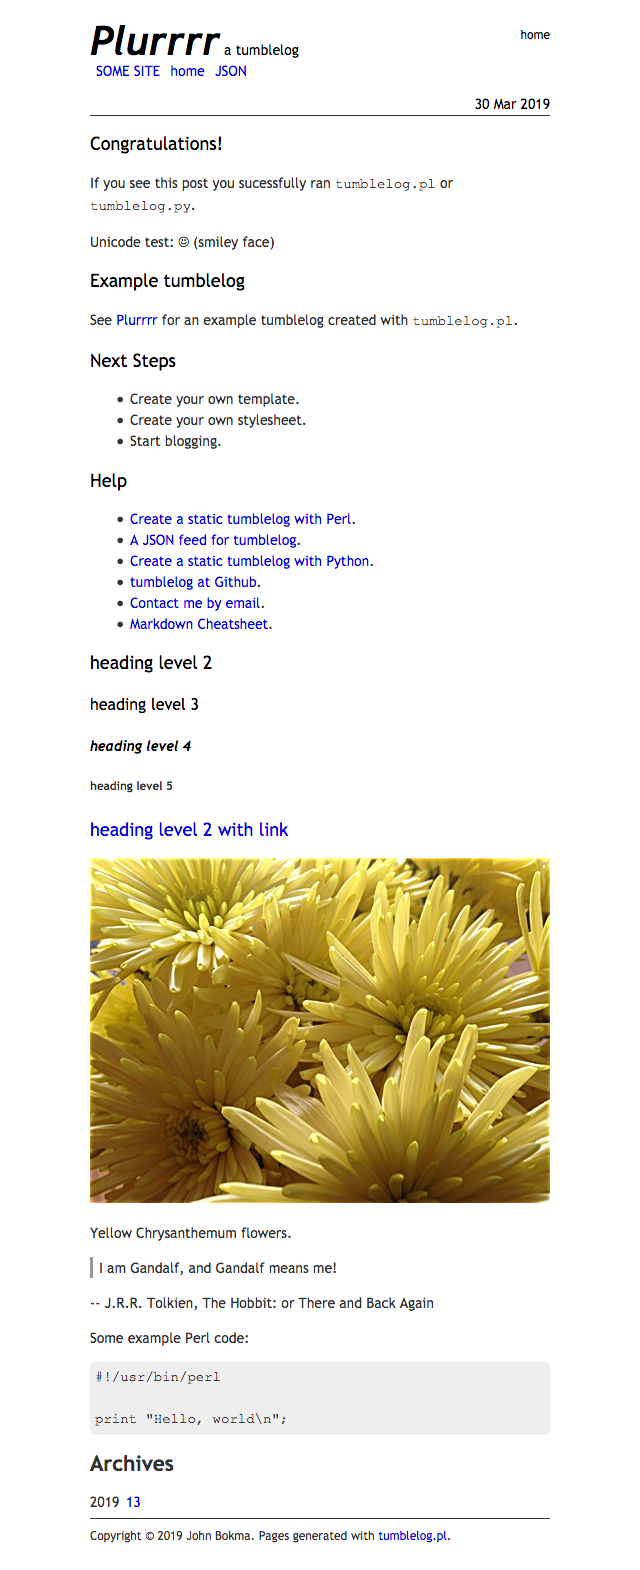
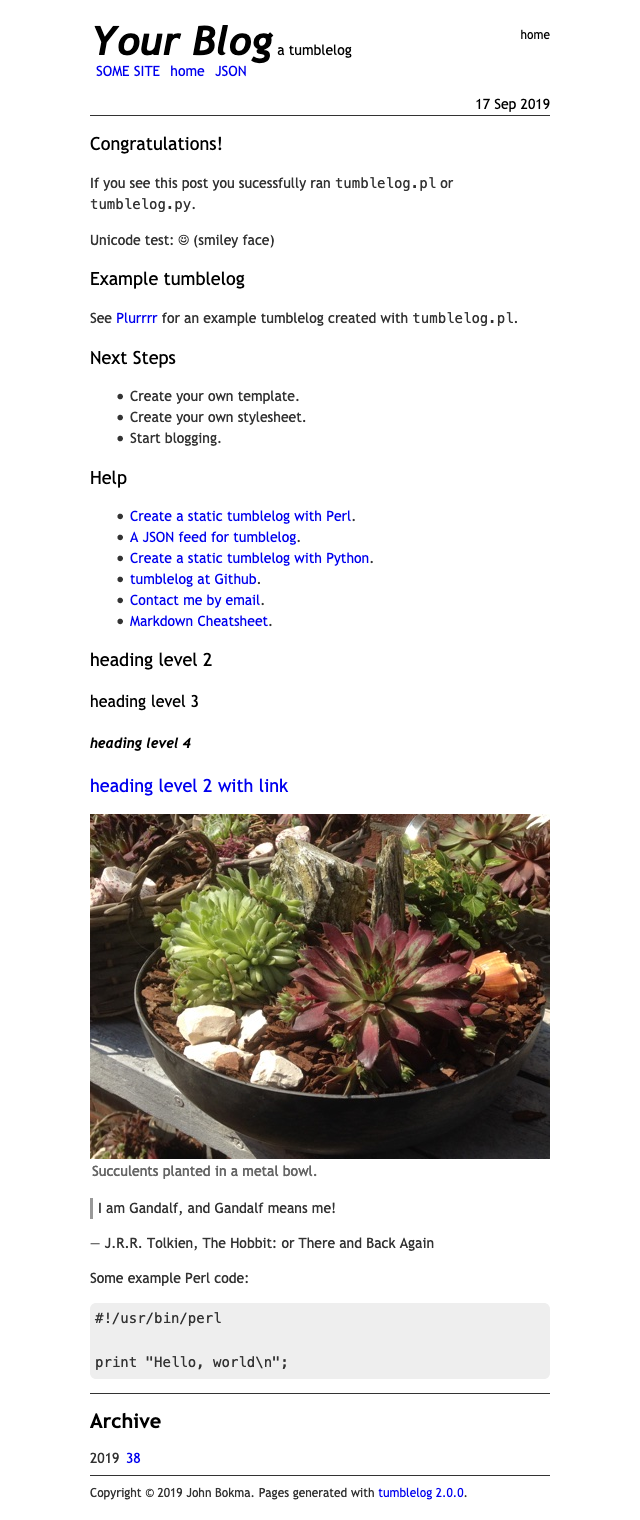
Render images followed by a caption as figure/figcaption

diff --git a/styles/soothe.scss b/styles/soothe.scss
@@ -32,3 +32,20 @@ $border: solid 1px $border-color;
 $border-radius: 6px;
 
 @import 'tumblelog';
+
+figure {
+    margin: 0;
+
+    img {
+        display: block;
+        border-radius: $border-radius $border-radius 0 0;
+    }
+    figcaption {
+        color: $background-color;
+        background-color: $text-color;
+        padding: 2px;
+        text-align: center;
+        border-radius: 0 0 $border-radius $border-radius;
+        margin-bottom: 1em;
+    }
+}

diff --git a/styles/adrift-in-dreams.scss b/styles/adrift-in-dreams.scss
@@ -73,3 +73,20 @@ blockquote {
     border-radius: $border-radius;
     border-left: solid 3px $blockquote-border-color;
 }
+
+figure {
+    margin: 0;
+
+    img {
+        display: block;
+        border-radius: 6px 6px 0 0;
+    }
+    figcaption {
+        color: $background-color;
+        background-color: $text-color;
+        padding: 2px;
+        text-align: center;
+        border-radius: 0 0 6px 6px;
+        margin-bottom: 1em;
+    }
+}

diff --git a/styles/thought-provoking.scss b/styles/thought-provoking.scss
@@ -73,3 +73,16 @@ blockquote {
     border-radius: $border-radius;
     border-left: solid 3px $blockquote-border-color;
 }
+
+figure {
+    margin: 0;
+
+    img {
+        display: block;
+    }
+    figcaption {
+        color: #666;
+        padding: 2px;
+        margin-bottom: 1em;
+    }
+}

diff --git a/styles/black-and-white.scss b/styles/black-and-white.scss
@@ -35,3 +35,16 @@ blockquote {
     border-radius: initial;
     border-left: solid 3px #999;
 }
+
+figure {
+    margin: 0;
+
+    img {
+        display: block;
+    }
+    figcaption {
+        color: #666;
+        padding: 2px;
+        margin-bottom: 1em;
+    }
+}

diff --git a/tumblelog.py b/tumblelog.py
@@ -9,15 +9,16 @@ import re
 import sys
 import json
 import argparse
+import commonmark
+import commonmark.node
 import urllib.parse
 from html import escape
 from operator import itemgetter
 from pathlib import Path
 from datetime import datetime
 from collections import defaultdict, deque
-from commonmark import commonmark
 
-VERSION = '1.0.8'
+VERSION = '2.0.0'
 
 RE_TITLE      = re.compile(r'(?x) \[% \s* title      \s* %\]')
 RE_YEAR_RANGE = re.compile(r'(?x) \[% \s* year-range \s* %\]')
@@ -37,7 +38,6 @@ class NoEntriesError(Exception):
 
 class NoDateSpecified(Exception):
     """Thrown in case the first blog entry has no date"""
-
 
 def join_year_week(year, week):
     return f'{year:04d}-{week:02d}'
@@ -173,10 +173,46 @@ def html_for_date(date, date_format, title, path):
         f'<a href="{uri}" title="{title_text}">{link_text}</a></time>\n'
     ])
 
+def rewrite_ast(ast):
+    """ Rewrite an image at the start of a paragraph followed by some text
+        to an image with a figcaption inside a figure element """
+    nodes_to_rewrite = []
+    for node, entering in ast.walker():
+        if node.t == 'paragraph' and not entering:
+            child = node.first_child
+            if child and child.t == 'image' and node.last_child is not child:
+                sibling = child.nxt
+                if sibling.t == 'softbreak':
+                    sibling.unlink()
+
+                figcaption = commonmark.node.Node('custom_block', None)
+                figcaption.on_enter = '<figcaption>'
+                figcaption.on_exit = '</figcaption>'
+
+                sibling = child.nxt
+                while sibling:
+                    nxt = sibling.nxt
+                    figcaption.append_child(sibling) # unlinks for us
+                    sibling = nxt
+
+                figure = commonmark.node.Node('custom_block', None)
+                figure.on_enter = '<figure>'
+                figure.on_exit = '</figure>'
+                figure.append_child(child)
+                figure.append_child(figcaption)
+
+                node.insert_before(figure)
+                node.unlink()
+
 def html_for_entry(entry):
+
+    ast = commonmark.Parser().parse(entry)
+    rewrite_ast(ast)
+    renderer = commonmark.HtmlRenderer()
+
     return ''.join([
         '<article>\n',
-        commonmark(entry),
+        renderer.render(ast),
         '</article>\n'
     ])
 
@@ -415,7 +451,6 @@ def create_argument_parser():
                         help="show version and exit", default=False)
     parser.add_argument('-q', '--quiet', action='store_true', dest='quiet',
                         help="don't show progress", default=False)
-
     return parser
 
 def get_config():

diff --git a/tumblelog.md b/tumblelog.md
@@ -1,4 +1,4 @@
-2019-04-12 Congratulations!
+2019-09-17 Congratulations!
 ## Congratulations!
 If you see this post you sucessfully ran `tumblelog.pl` or `tumblelog.py`.
 
@@ -28,12 +28,12 @@ https://github.com/adam-p/markdown-here/wiki/Markdown-Cheatsheet).
 ## heading level 2
 ### heading level 3
 #### heading level 4
-##### heading level 5
-## [heading level 2 with link](http://example.com/)
-![Yellow Chrysanthemum flowers](
-http://plurrrr.com/images/yellow-chrysanthemum-flowers.jpg)
 
-Yellow Chrysanthemum flowers.
+## [heading level 2 with link](http://example.com/)
+
+![Succulents planted in a metal bowl](
+http://plurrrr.com/images/succulents.jpg)
+Succulents planted in a metal bowl.
 
 > I am Gandalf, and Gandalf means me!
 

diff --git a/README.md b/README.md
@@ -1,5 +1,28 @@
 # tumblelog: a static microblog generator
 
+## New in version 2.0.0
+
+Note that images with text following immediately are rendered as a
+figure with the text in a figcaption element. This means that:
+
+```
+![Alt text](cat.jpg)
+Photo of a cat.
+```
+
+is rendered as HTML as follows:
+
+```
+<figure>
+<img alt="Alt text" src="cat.jpg" />
+<figcaption>
+Photo of a cat.
+</figcaption>
+</figure>
+```
+
+This allows for styling of both the image and the caption.
+
 ## Perl version
 
 Please read my blog entry [Create a static tumblelog with Perl](http://johnbokma.com/blog/2019/03/30/tumblelog-perl.html) which has a thorough explanation on how to use this program. Additionally, read
